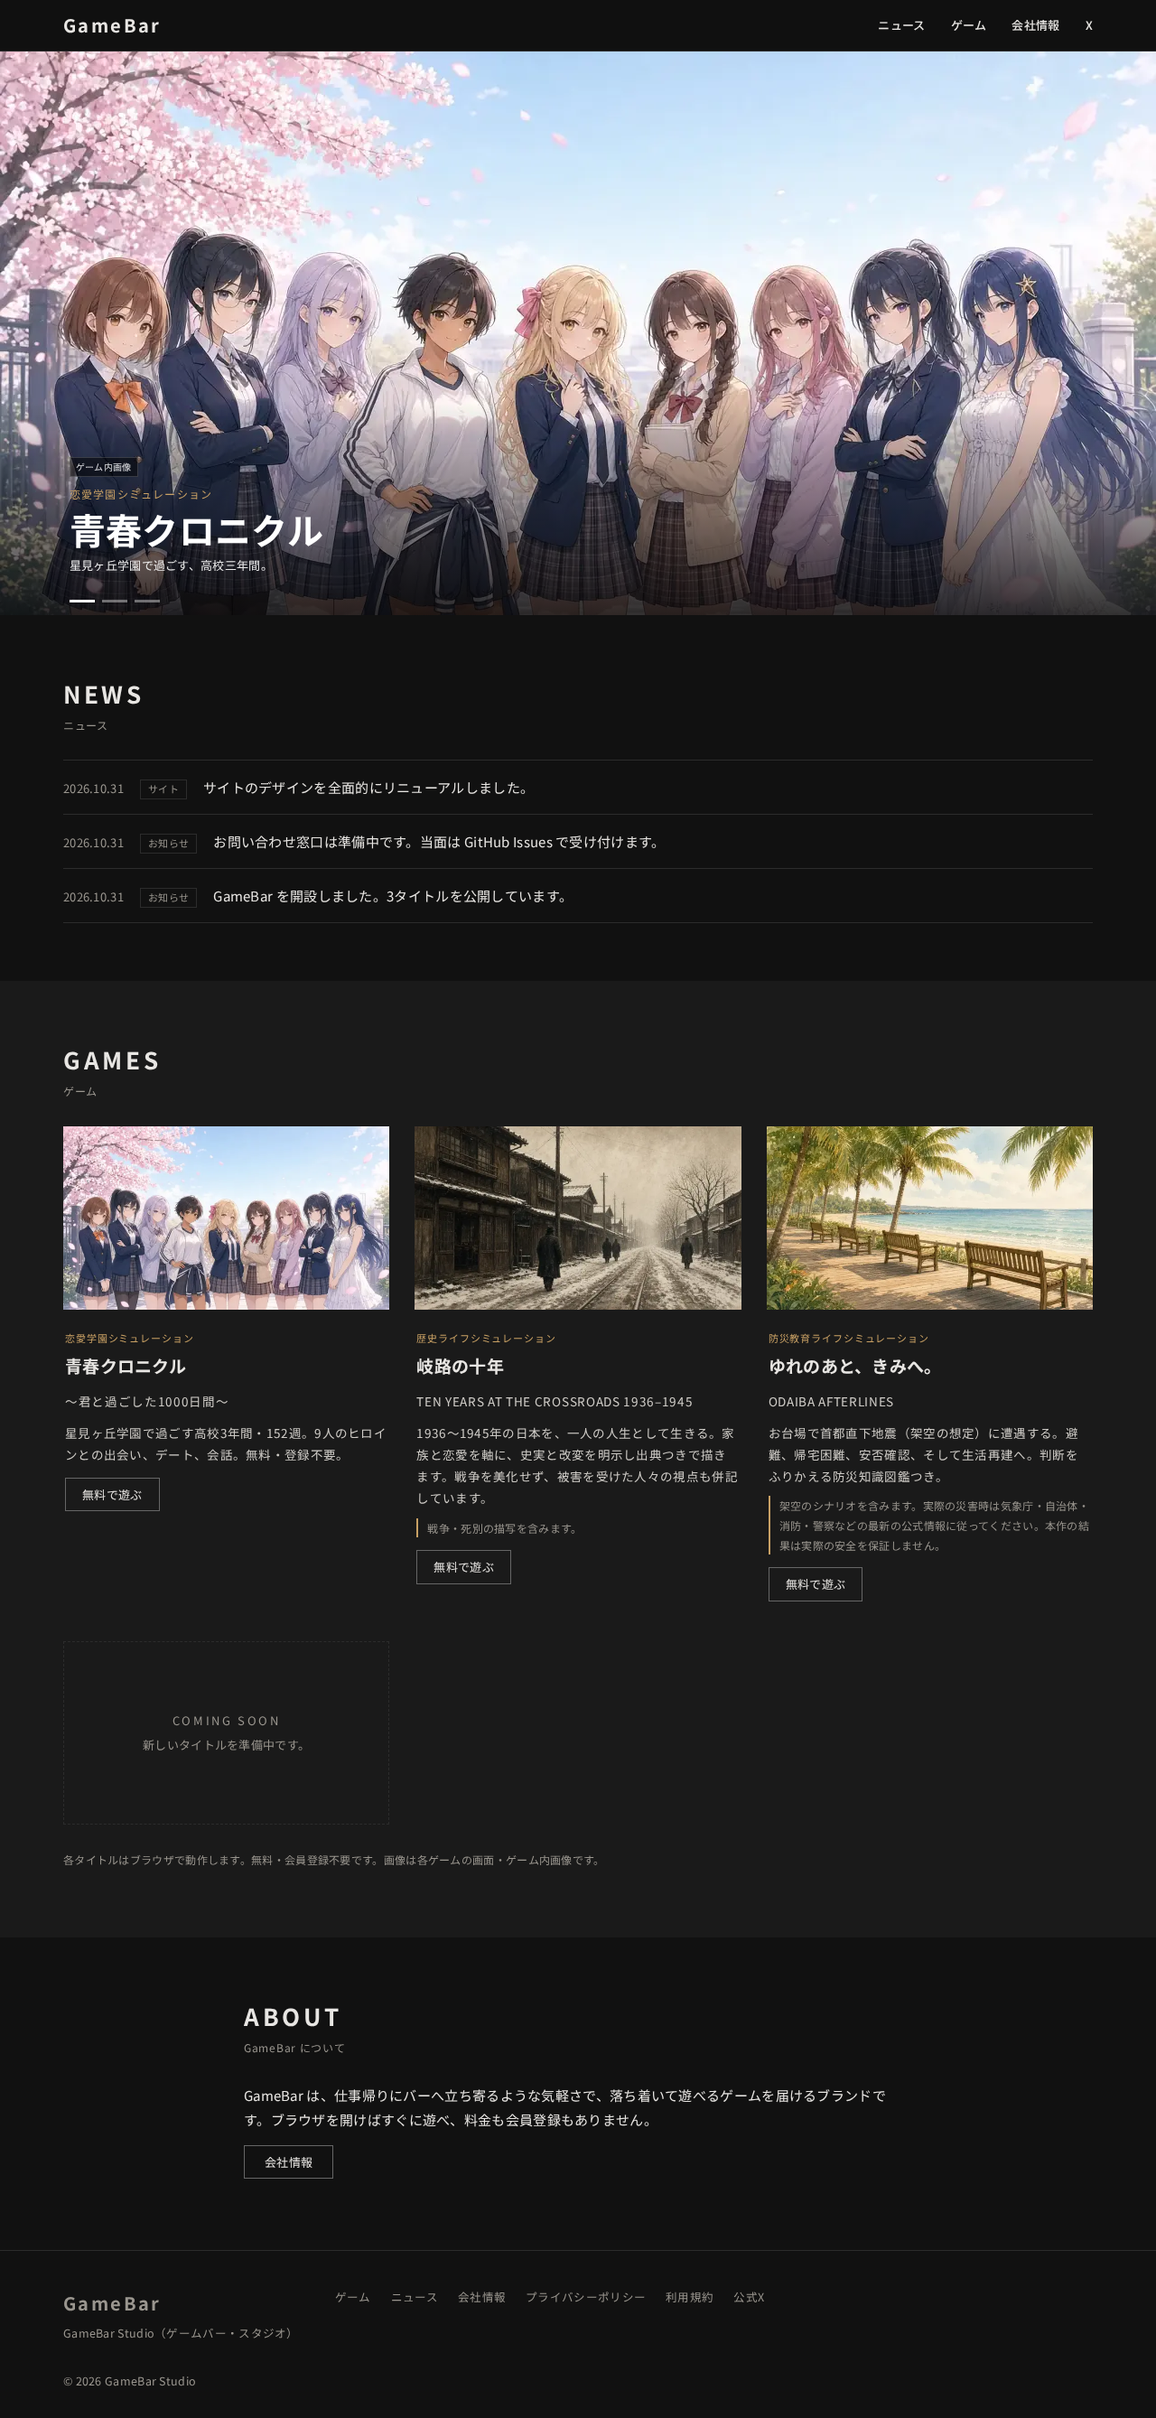
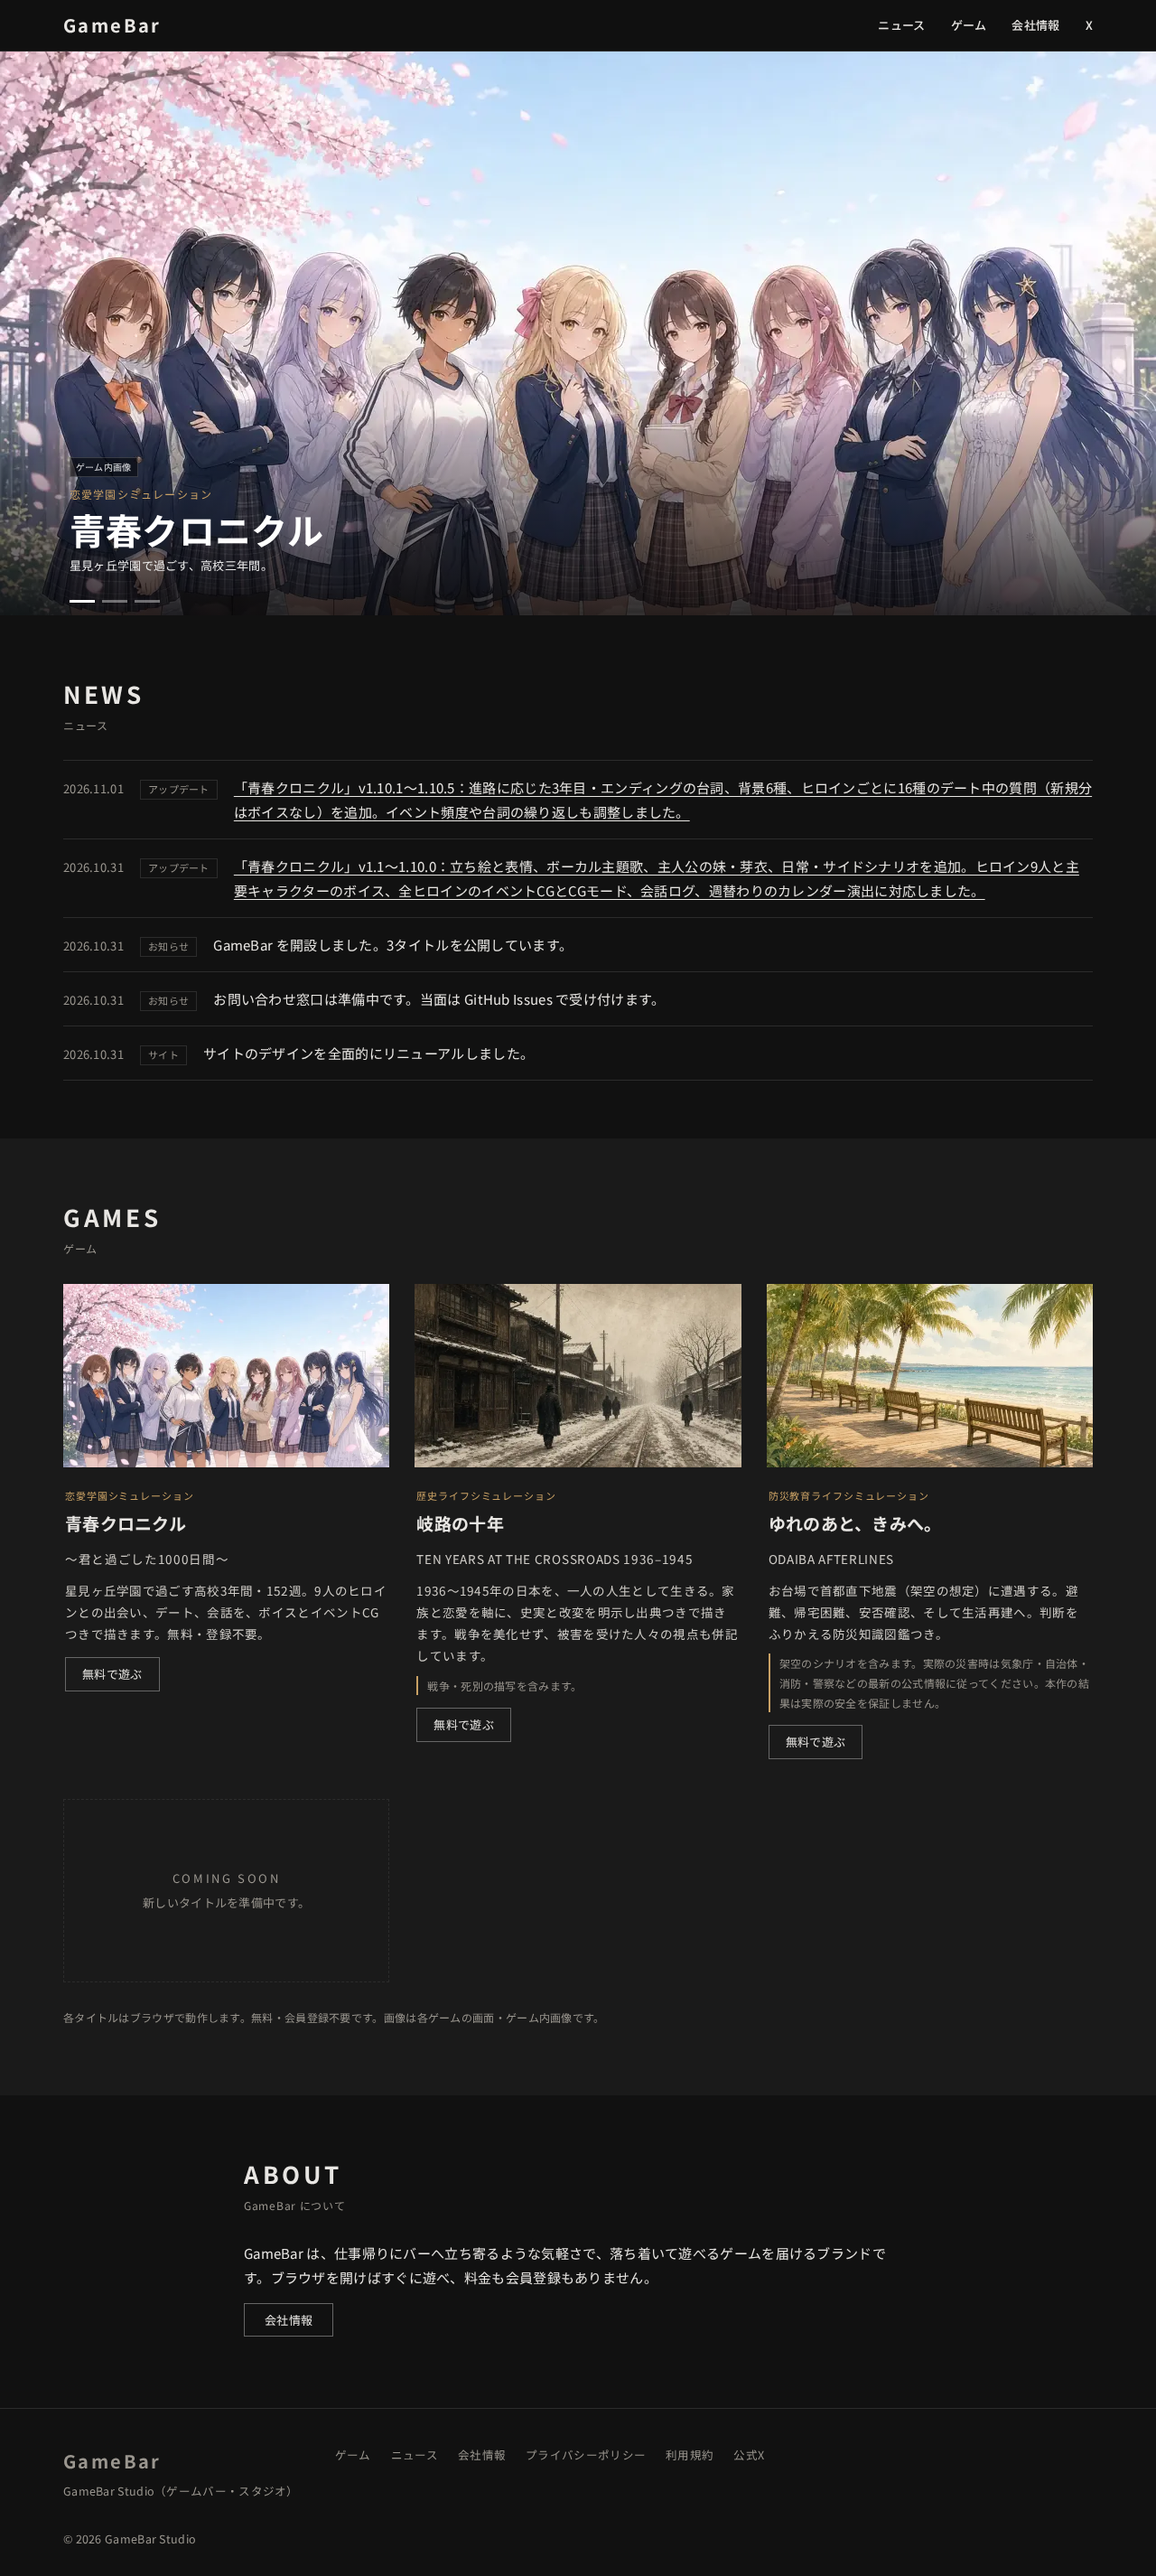
News: 青春クロニクル updates (10/31, 11/01 JST); refresh game description

diff --git a/index.html b/index.html
@@ -5,8 +5,8 @@
 <header class="gh"><div class="in"><a class="logo" href="/">GameBar</a>
 <input type="checkbox" id="nv" class="nvt" aria-label="メニュー"><label for="nv" class="burger" aria-hidden="true"><i></i><i></i><i></i></label>
 <nav class="gn"><a href="/#news">ニュース</a><a href="/#games">ゲーム</a><a href="/about.html">会社情報</a><a href="https://x.com/GameBar777" rel="noopener" target="_blank">X</a></nav></div></header><main><section class="kv" aria-label="注目のタイトル"><div class="sls"><a class="sl on" href="https://gamebar777.github.io/seishun-chronicle/"><img src="img/kv-ripple-years-l.webp" srcset="img/kv-ripple-years-s.webp 640w, img/kv-ripple-years-l.webp 1280w" sizes="100vw" alt="青春クロニクル" width="1280" height="720" fetchpriority="high"><span class="cap"><em>恋愛学園シミュレーション</em><b>青春クロニクル</b><span>星見ヶ丘学園で過ごす、高校三年間。</span><i class="lbl">ゲーム内画像</i></span></a><a class="sl" href="https://gamebar777.github.io/showa-crossroads/"><img src="img/kv-showa-crossroads-l.webp" srcset="img/kv-showa-crossroads-s.webp 640w, img/kv-showa-crossroads-l.webp 1280w" sizes="100vw" alt="岐路の十年" width="1280" height="720" loading="lazy"><span class="cap"><em>歴史ライフシミュレーション</em><b>岐路の十年</b><span>一九三六年から一九四五年。一人の人生として、あの十年を生きる。</span><i class="lbl">ゲーム内画像（AI再現イメージ）</i></span></a><a class="sl" href="https://gamebar777.github.io/odaiba-afterlines/"><img src="img/kv-odaiba-afterlines-l.webp" srcset="img/kv-odaiba-afterlines-s.webp 640w, img/kv-odaiba-afterlines-l.webp 1280w" sizes="100vw" alt="ゆれのあと、きみへ。" width="1280" height="720" loading="lazy"><span class="cap"><em>防災教育ライフシミュレーション</em><b>ゆれのあと、きみへ。</b><span>平日の午後、お台場。そのとき、あなたはどう動くか。</span><i class="lbl">ゲーム内画像</i></span></a></div><div class="dots"><button type="button" aria-label="1枚目" class="on"></button><button type="button" aria-label="2枚目" class=""></button><button type="button" aria-label="3枚目" class=""></button></div></section>
-<section class="sec" id="news"><div class="in"><h2>NEWS<small>ニュース</small></h2><ul class="news"><li><time datetime="2026-10-31">2026.10.31</time><span class="cat">サイト</span><p>サイトのデザインを全面的にリニューアルしました。</p></li><li><time datetime="2026-10-31">2026.10.31</time><span class="cat">お知らせ</span><p>お問い合わせ窓口は準備中です。当面は GitHub Issues で受け付けます。</p></li><li><time datetime="2026-10-31">2026.10.31</time><span class="cat">お知らせ</span><p>GameBar を開設しました。3タイトルを公開しています。</p></li></ul></div></section>
-<section class="sec alt" id="games"><div class="in"><h2>GAMES<small>ゲーム</small></h2><ul class="grid"><li class="gc"><a href="https://gamebar777.github.io/seishun-chronicle/"><div class="th"><img src="img/kv-ripple-years-s.webp" alt="" width="640" height="360" loading="lazy"></div><div class="tx"><em>恋愛学園シミュレーション</em><h3>青春クロニクル</h3><p class="st">～君と過ごした1000日間～</p><p>星見ヶ丘学園で過ごす高校3年間・152週。9人のヒロインとの出会い、デート、会話。無料・登録不要。</p><span class="pl">無料で遊ぶ</span></div></a></li><li class="gc"><a href="https://gamebar777.github.io/showa-crossroads/"><div class="th"><img src="img/kv-showa-crossroads-s.webp" alt="" width="640" height="360" loading="lazy"></div><div class="tx"><em>歴史ライフシミュレーション</em><h3>岐路の十年</h3><p class="st">TEN YEARS AT THE CROSSROADS 1936–1945</p><p>1936〜1945年の日本を、一人の人生として生きる。家族と恋愛を軸に、史実と改変を明示し出典つきで描きます。戦争を美化せず、被害を受けた人々の視点も併記しています。</p><p class="nt">戦争・死別の描写を含みます。</p><span class="pl">無料で遊ぶ</span></div></a></li><li class="gc"><a href="https://gamebar777.github.io/odaiba-afterlines/"><div class="th"><img src="img/kv-odaiba-afterlines-s.webp" alt="" width="640" height="360" loading="lazy"></div><div class="tx"><em>防災教育ライフシミュレーション</em><h3>ゆれのあと、きみへ。</h3><p class="st">ODAIBA AFTERLINES</p><p>お台場で首都直下地震（架空の想定）に遭遇する。避難、帰宅困難、安否確認、そして生活再建へ。判断をふりかえる防災知識図鑑つき。</p><p class="nt">架空のシナリオを含みます。実際の災害時は気象庁・自治体・消防・警察などの最新の公式情報に従ってください。本作の結果は実際の安全を保証しません。</p><span class="pl">無料で遊ぶ</span></div></a></li><li class="gc soon"><div><em>COMING SOON</em><p>新しいタイトルを準備中です。</p></div></li></ul><p class="fine">各タイトルはブラウザで動作します。無料・会員登録不要です。画像は各ゲームの画面・ゲーム内画像です。</p></div></section>
+<section class="sec" id="news"><div class="in"><h2>NEWS<small>ニュース</small></h2><ul class="news"><li><time datetime="2026-11-01">2026.11.01</time><span class="cat">アップデート</span><p><a href="https://gamebar777.github.io/seishun-chronicle/">「青春クロニクル」v1.10.1〜1.10.5：進路に応じた3年目・エンディングの台詞、背景6種、ヒロインごとに16種のデート中の質問（新規分はボイスなし）を追加。イベント頻度や台詞の繰り返しも調整しました。</a></p></li><li><time datetime="2026-10-31">2026.10.31</time><span class="cat">アップデート</span><p><a href="https://gamebar777.github.io/seishun-chronicle/">「青春クロニクル」v1.1〜1.10.0：立ち絵と表情、ボーカル主題歌、主人公の妹・芽衣、日常・サイドシナリオを追加。ヒロイン9人と主要キャラクターのボイス、全ヒロインのイベントCGとCGモード、会話ログ、週替わりのカレンダー演出に対応しました。</a></p></li><li><time datetime="2026-10-31">2026.10.31</time><span class="cat">お知らせ</span><p>GameBar を開設しました。3タイトルを公開しています。</p></li><li><time datetime="2026-10-31">2026.10.31</time><span class="cat">お知らせ</span><p>お問い合わせ窓口は準備中です。当面は GitHub Issues で受け付けます。</p></li><li><time datetime="2026-10-31">2026.10.31</time><span class="cat">サイト</span><p>サイトのデザインを全面的にリニューアルしました。</p></li></ul></div></section>
+<section class="sec alt" id="games"><div class="in"><h2>GAMES<small>ゲーム</small></h2><ul class="grid"><li class="gc"><a href="https://gamebar777.github.io/seishun-chronicle/"><div class="th"><img src="img/kv-ripple-years-s.webp" alt="" width="640" height="360" loading="lazy"></div><div class="tx"><em>恋愛学園シミュレーション</em><h3>青春クロニクル</h3><p class="st">～君と過ごした1000日間～</p><p>星見ヶ丘学園で過ごす高校3年間・152週。9人のヒロインとの出会い、デート、会話を、ボイスとイベントCGつきで描きます。無料・登録不要。</p><span class="pl">無料で遊ぶ</span></div></a></li><li class="gc"><a href="https://gamebar777.github.io/showa-crossroads/"><div class="th"><img src="img/kv-showa-crossroads-s.webp" alt="" width="640" height="360" loading="lazy"></div><div class="tx"><em>歴史ライフシミュレーション</em><h3>岐路の十年</h3><p class="st">TEN YEARS AT THE CROSSROADS 1936–1945</p><p>1936〜1945年の日本を、一人の人生として生きる。家族と恋愛を軸に、史実と改変を明示し出典つきで描きます。戦争を美化せず、被害を受けた人々の視点も併記しています。</p><p class="nt">戦争・死別の描写を含みます。</p><span class="pl">無料で遊ぶ</span></div></a></li><li class="gc"><a href="https://gamebar777.github.io/odaiba-afterlines/"><div class="th"><img src="img/kv-odaiba-afterlines-s.webp" alt="" width="640" height="360" loading="lazy"></div><div class="tx"><em>防災教育ライフシミュレーション</em><h3>ゆれのあと、きみへ。</h3><p class="st">ODAIBA AFTERLINES</p><p>お台場で首都直下地震（架空の想定）に遭遇する。避難、帰宅困難、安否確認、そして生活再建へ。判断をふりかえる防災知識図鑑つき。</p><p class="nt">架空のシナリオを含みます。実際の災害時は気象庁・自治体・消防・警察などの最新の公式情報に従ってください。本作の結果は実際の安全を保証しません。</p><span class="pl">無料で遊ぶ</span></div></a></li><li class="gc soon"><div><em>COMING SOON</em><p>新しいタイトルを準備中です。</p></div></li></ul><p class="fine">各タイトルはブラウザで動作します。無料・会員登録不要です。画像は各ゲームの画面・ゲーム内画像です。</p></div></section>
 <section class="sec" id="about"><div class="in narrow"><h2>ABOUT<small>GameBar について</small></h2><p>GameBar は、仕事帰りにバーへ立ち寄るような気軽さで、落ち着いて遊べるゲームを届けるブランドです。ブラウザを開けばすぐに遊べ、料金も会員登録もありません。</p><p><a class="more" href="/about.html">会社情報</a></p></div></section>
 <script>(()=>{const s=[...document.querySelectorAll('.sl')],d=[...document.querySelectorAll('.dots button')];let i=0,t;const go=n=>{s[i].classList.remove('on');d[i].classList.remove('on');i=(n+s.length)%s.length;s[i].classList.add('on');d[i].classList.add('on')};
 d.forEach((b,n)=>b.onclick=()=>{go(n);clearInterval(t)});if(!matchMedia('(prefers-reduced-motion: reduce)').matches)t=setInterval(()=>go(i+1),6000)})()</script></main><footer class="gf"><div class="in"><div class="fl"><a class="logo" href="/">GameBar</a><p>GameBar Studio（ゲームバー・スタジオ）</p></div>

diff --git a/style.css b/style.css
@@ -41,3 +41,4 @@ h2,.ph h1{font-size:26px;letter-spacing:.14em;margin:0 0 28px;font-weight:700}h2
 .gf .in{display:flex;flex-wrap:wrap;gap:20px 40px;align-items:flex-start}.gf .fl p{margin:4px 0 0}.gf nav{display:flex;flex-wrap:wrap;gap:8px 22px;flex:1}.gf nav a{text-decoration:none}.gf nav a:hover{color:var(--tx)}.cp{width:100%;margin:10px 0 0}
 @media (prefers-reduced-motion:reduce){*{transition:none!important;scroll-behavior:auto}}
 @media(max-width:720px){.gf nav{flex:1 1 100%}}
+.news p a{color:inherit;text-decoration:underline;text-underline-offset:3px}
